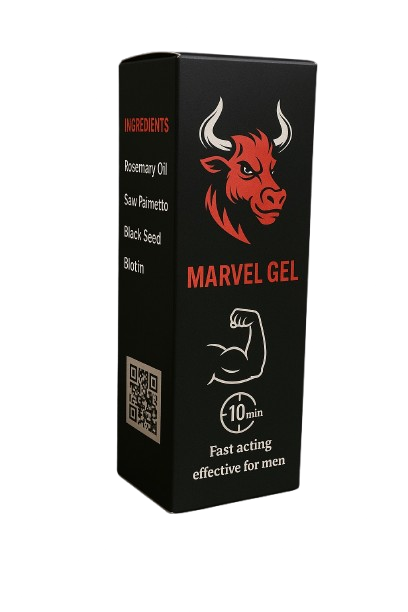
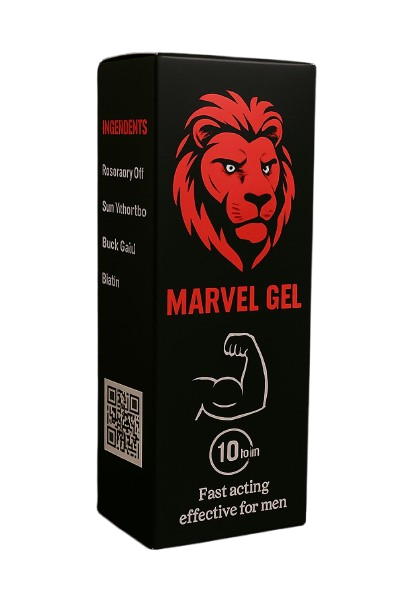
Update images and titles to reflect branding change from Corton to Marvel

Changed region(s): [[0.2353, 0.0621, 0.7941, 0.9003]]

diff --git a/index.html b/index.html
@@ -3,17 +3,17 @@
 
 <head>
   <meta charset="UTF-8" />
-  <link rel="icon" type="image/svg+xml" href="img/croton_gel_nobg.png" />
+  <link rel="icon" type="image/svg+xml" href="img/marvel_nobg.png" />
   <meta name="viewport" content="width=device-width, initial-scale=1.0" />
   <link href="https://cdn.jsdelivr.net/npm/bootstrap@5.3.3/dist/css/bootstrap.min.css" rel="stylesheet"
     integrity="sha384-QWTKZyjpPEjISv5WaRU9OFeRpok6YctnYmDr5pNlyT2bRjXh0JMhjY6hW+ALEwIH" crossorigin="anonymous">
   <!-- Open Graph tags -->
-  <meta property="og:title" content="Corton Gel" />
+  <meta property="og:title" content="Marvel Gel" />
   <meta property="og:description" content="وداعا لضعف الانتصاب اساعيج ثقتك من جديد" />
-  <meta property="og:image" content="https://corton-gel.netlify.app/img/croton_gel_nobg.png" />
+  <meta property="og:image" content="https://corton-gel.netlify.app/img/marvel_nobg.png" />
   <meta property="og:url" content="https://corton-gel.netlify.app/" />
   <meta property="og:type" content="website" />
-  <title>Corton Gel</title>
+  <title>Marvel Gel</title>
 </head>
 
 <body>

diff --git a/src/pages/Completed.jsx b/src/pages/Completed.jsx
@@ -12,7 +12,7 @@ function Completed() {
     return (
         <div className='completed_order h-100 text-white py-5'>
             <h3 className="fs-2 text-center w-75 m-auto"> تم تسجيل بياناتك بنجاح, سيتم التواصل معك فى أقرب وقت </h3>
-            <img src="img/croton_gel_nobg.png" alt="" className="img-fluid d-block m-auto " />
+            <img src="img/marvel_nobg.png" alt="" className="img-fluid d-block m-auto " />
         </div>
     )
 }

diff --git a/src/pages/Completed.css b/src/pages/Completed.css
@@ -1,7 +1,5 @@
 .completed_order {
-background: radial-gradient(circle at left, rgba(128, 128, 128, 0.6), transparent 40%), 
-  radial-gradient(circle at right, rgba(100, 100, 100, 0.6), transparent 40%), 
-  rgb(8 3 24);
+background: radial-gradient(circle at left, rgb(43 39 39 / 60%), transparent 40%), radial-gradient(circle at right, rgb(43 39 39 / 60%), transparent 40%), #000000;
 }
 
 .completed_order img {
